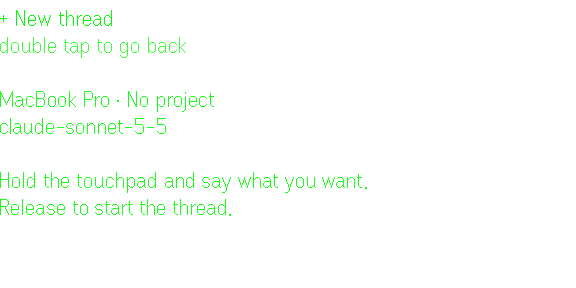
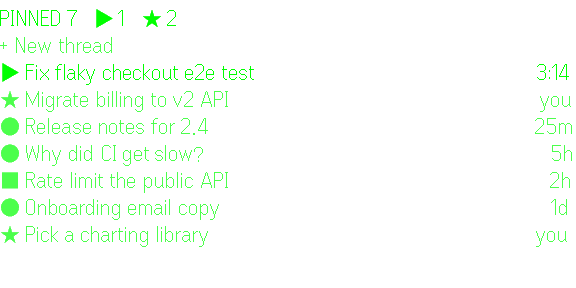
Fix stale frames painting over newer screens; thin brightness scrollbar; line headroom; store screenshots

diff --git a/src/glasses/controller.ts b/src/glasses/controller.ts
@@ -33,7 +33,7 @@ const ROWS_TOTAL = 10
 
 /** Container ids/names are shared across screens; each screen uses a subset. */
 const C = {
-  head: [1, 'head'], side: [2, 'side'], status: [3, 'status'], body: [4, 'body'], bar: [5, 'bar'], selected: [6, 'selected'], input: [7, 'input'], prompt: [8, 'prompt'],
+  head: [1, 'head'], side: [2, 'side'], status: [3, 'status'], body: [4, 'body'], bar: [5, 'bar'], selected: [6, 'selected'], input: [7, 'input'], prompt: [8, 'prompt'], thumb: [9, 'thumb'],
 } as const
 type Slot = keyof typeof C
 
@@ -79,6 +79,7 @@ export class GlassesController {
   private renderTimer: ReturnType<typeof setTimeout> | undefined
   private seen: Record<string, string> = {}
   private rendering: Promise<void> = Promise.resolve()
+  private latest: { layout: string; boxes: Box[] } | null = null
   private cursorKey = 'new'
   private listTop = 0
   private tick = 0
@@ -163,8 +164,15 @@ export class GlassesController {
    * Draws a screen. The first draw of a layout rebuilds the page; later draws with the same layout only
    * push the containers whose text or brightness changed, which is flicker-free and cheap over BLE.
    */
-  private draw(layout: string, boxes: Box[]): Promise<void> {
+  private draw(nextLayout: string, nextBoxes: Box[]): Promise<void> {
+    // Only the newest frame matters: a frame queued behind a slow BLE update is dropped rather than
+    // painted late over a newer screen.
+    this.latest = { layout: nextLayout, boxes: nextBoxes }
     this.rendering = this.rendering.catch(() => {}).then(async () => {
+      const frame = this.latest
+      if (!frame) return
+      this.latest = null
+      const { layout, boxes } = frame
       if (layout === this.layout && this.created) {
         for (const box of boxes) {
           const text = box.text || ' '
@@ -211,6 +219,14 @@ export class GlassesController {
     return this.rendering
   }
 
+  /** Dim track and bright thumb, overlaid. */
+  private barBoxes(bar: { track: string; thumb: string }, y: number, h: number): Box[] {
+    return [
+      { slot: 'bar', x: FULL_W - BAR_W, y, w: BAR_W, h, text: bar.track, brightness: 1 },
+      { slot: 'thumb', x: FULL_W - BAR_W, y, w: BAR_W, h, text: bar.thumb, brightness: BRIGHT },
+    ]
+  }
+
   private showMessage(title: string, body: string) {
     return this.draw(`message:${title}:${body}`, [
       { slot: 'head', x: 0, y: rowY(0), w: FULL_W, h: rowsH(1), text: title, brightness: BRIGHT },
@@ -248,14 +264,14 @@ export class GlassesController {
     const cursor = this.cursor(rows)
     this.listTop = listStart(rows.length, cursor, this.listTop)
     const bar = scrollbar(rows.length, this.listTop, LIST_ROWS)
-    const width = FULL_W - (bar ? BAR_W + 4 : 0)
+    const width = FULL_W - (bar.thumb ? BAR_W + 4 : 0)
     const { dim, bright } = listLayers(rows, cursor, this.listTop, width)
-    return this.draw(`list:${bar ? 'bar' : 'nobar'}`, [
+    return this.draw(`list:${bar.thumb ? 'bar' : 'nobar'}`, [
       { slot: 'head', x: 0, y: rowY(0), w: FULL_W, h: rowsH(1), text: listHeader(this.threads, this.fleet.state.machines.length), brightness: BRIGHT },
       // Two layers at the same position: the selected row is bright, the rest dim.
       { slot: 'body', x: 0, y: rowY(1), w: width, h: rowsH(LIST_ROWS), text: dim, brightness: 1 },
       { slot: 'selected', x: 0, y: rowY(1), w: width, h: rowsH(LIST_ROWS), text: bright, brightness: BRIGHT },
-      ...(bar ? [{ slot: 'bar' as const, x: FULL_W - BAR_W, y: rowY(1), w: BAR_W, h: rowsH(LIST_ROWS), text: bar, brightness: DIM }] : []),
+      ...(bar.thumb ? this.barBoxes(bar, rowY(1), rowsH(LIST_ROWS)) : []),
     ])
   }
 
@@ -368,7 +384,7 @@ export class GlassesController {
       { slot: 'side', x: FULL_W - TITLE_SIDE_W, y: rowY(0), w: TITLE_SIDE_W, h: rowsH(1), text: badge, brightness: mark === 'run' || mark === 'ask' ? BRIGHT : DIM },
       // Chat sits between the title and the live line, so the newest activity is at the bottom, under the newest message.
       { slot: 'body', x: 0, y: rowY(1), w: TEXT_W, h: rowsH(rows), text: loading ? 'Loading…' : bottomAnchor(view.lines, rows) || 'No messages yet.', brightness: MID },
-      { slot: 'bar', x: FULL_W - BAR_W, y: rowY(1), w: BAR_W, h: rowsH(rows), text: bar, brightness: DIM },
+      ...this.barBoxes(bar, rowY(1), rowsH(rows)),
       { slot: 'status', x: 0, y: rowY(1 + rows), w: FULL_W, h: rowsH(1), text: fitWidth(status.text, FULL_W - 4), brightness: status.brightness },
     ])
   }

diff --git a/src/glasses/screens.ts b/src/glasses/screens.ts
@@ -129,13 +129,21 @@ export function listHeader(threads: PinnedThread[], machines: number): string {
   return parts.join('   ')
 }
 
-/** Scroll position of the list as a proportional bar, one glyph per row. */
-export function scrollbar(total: number, start: number, visibleRows: number): string {
-  if (total <= visibleRows) return ''
-  const thumb = Math.max(1, Math.round((visibleRows / total) * visibleRows))
+/**
+ * A scrollbar as two layers drawn in the same place: a dim `│` track on every row, and the same thin
+ * glyph bright where the thumb is. Brightness, not a block glyph, marks the position. Empty when
+ * everything fits.
+ */
+export function scrollbar(total: number, start: number, visibleRows: number): { track: string; thumb: string } {
+  if (total <= visibleRows) return { track: '', thumb: '' }
+  const size = Math.max(1, Math.round((visibleRows / total) * visibleRows))
   const maxStart = total - visibleRows
-  const top = Math.round((start / maxStart) * (visibleRows - thumb))
-  return Array.from({ length: visibleRows }, (_, i) => (i >= top && i < top + thumb ? '█' : '│')).join('\n')
+  const top = Math.round((Math.min(start, maxStart) / maxStart) * (visibleRows - size))
+  const rows = Array.from({ length: visibleRows }, (_, i) => i >= top && i < top + size)
+  return {
+    track: rows.map(on => (on ? '' : '│')).join('\n'),
+    thumb: rows.map(on => (on ? '┃' : '')).join('\n'),
+  }
 }
 
 // --- thread ----------------------------------------------------------------------------------
@@ -200,11 +208,9 @@ export function chatLines(
   return lines
 }
 
-/** Thread scrollbar: track `│` with a `█` thumb sized to the visible share. Empty when it all fits. */
-export function chatBar(total: number, rows: number, fromBottom: number): string {
-  if (total <= rows) return ''
-  const maxOffset = total - rows
-  return scrollbar(total, maxOffset - fromBottom, rows)
+/** Thread scrollbar, measured from the bottom because the chat follows the newest line. */
+export function chatBar(total: number, rows: number, fromBottom: number) {
+  return scrollbar(total, Math.max(0, total - rows - fromBottom), rows)
 }
 
 export function titleBadge(mark: Mark, runMs: number | null): string {

diff --git a/src/glasses/screens.test.ts b/src/glasses/screens.test.ts
@@ -72,17 +72,20 @@ describe('list', () => {
 
 describe('scrollbar', () => {
   it('is empty when everything fits', () => {
-    expect(scrollbar(5, 0, 9)).toBe('')
+    expect(scrollbar(5, 0, 9)).toEqual({ track: '', thumb: '' })
   })
-  it('sizes and positions the thumb', () => {
-    expect(scrollbar(18, 0, 9).split('\n').slice(0, 5)).toEqual(['█', '█', '█', '█', '█'])
-    expect(scrollbar(18, 9, 9).split('\n').at(-1)).toBe('█')
-    expect(scrollbar(18, 9, 9).split('\n')[0]).toBe('│')
+  it('puts the bright thumb where the view is, and the dim track everywhere else', () => {
+    const top = scrollbar(18, 0, 9)
+    expect(top.thumb.split('\n').slice(0, 5)).toEqual(['┃', '┃', '┃', '┃', '┃'])
+    expect(top.track.split('\n').slice(0, 6)).toEqual(['', '', '', '', '', '│'])
+    const bottom = scrollbar(18, 9, 9)
+    expect(bottom.thumb.split('\n').at(-1)).toBe('┃')
+    expect(bottom.track.split('\n')[0]).toBe('│')
   })
-  it('puts the thumb at the bottom when the chat follows the latest', () => {
-    const bar = chatBar(40, 8, 0).split('\n')
-    expect(bar.at(-1)).toBe('█')
-    expect(bar[0]).toBe('│')
+  it('sits at the bottom while the chat follows the latest', () => {
+    const bar = chatBar(40, 8, 0)
+    expect(bar.thumb.split('\n').at(-1)).toBe('┃')
+    expect(bar.track.split('\n')[0]).toBe('│')
   })
 })
 

diff --git a/README.md b/README.md
@@ -4,9 +4,9 @@ Your pinned [T3 Code](https://github.com/pingdotgg/t3code) threads on Even Reali
 
 It runs as an Even Hub app on your phone and talks straight to your own T3 server, paired the same way as T3's mobile app. No bridge, no cloud service, no transcription service: the agent transcribes your audio on your machine.
 
-| Pinned threads | A thread, live |
-|---|---|
-| ![Pinned threads](assets/screenshots/list.png) | ![A running thread](assets/screenshots/thread.png) |
+| Pinned threads | A thread, live | Answering a question |
+|---|---|---|
+| ![Pinned threads](assets/screenshots/list.png) | ![A running thread](assets/screenshots/thread.png) | ![A question](assets/screenshots/question.png) |
 
 ## On the glasses
 
